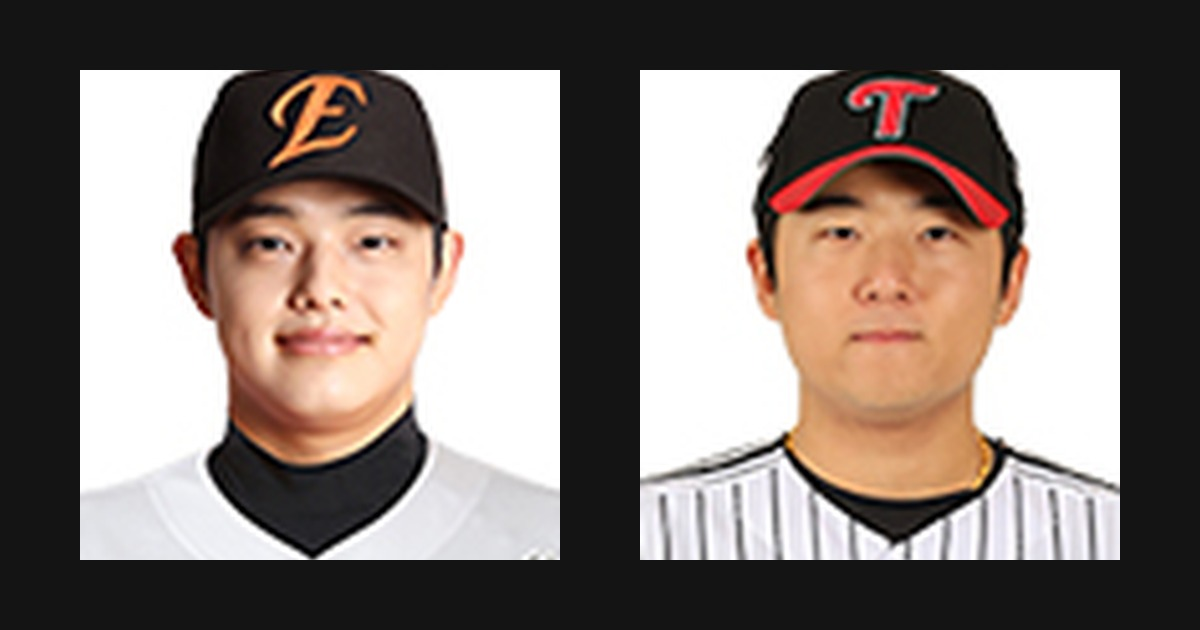
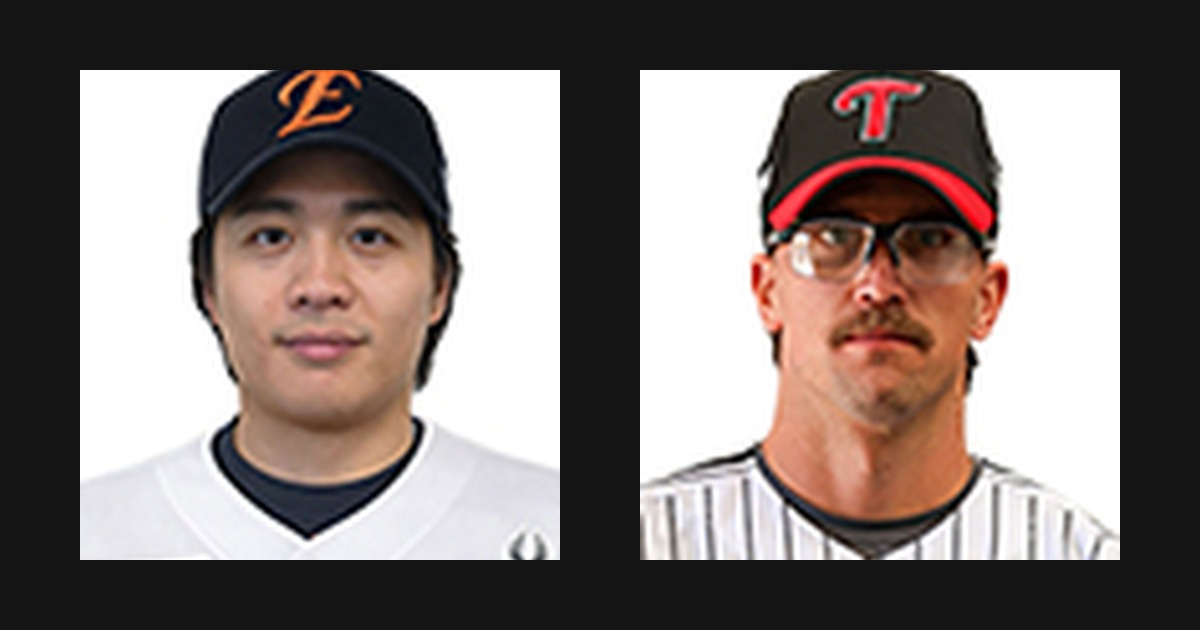
feat: pitcher cards, next-day fallback, night schedule
Made-with: Cursor

Changed region(s): [[0.5242, 0.0905, 0.9558, 0.9048], [0.0617, 0.0905, 0.4625, 0.9048], [0.4008, 0.8444, 0.4625, 0.9048]]

diff --git a/index.html b/index.html
@@ -3,22 +3,22 @@
 <head>
   <meta charset="UTF-8" />
   <meta name="viewport" content="width=device-width, initial-scale=1.0" />
-  <title>2026년 4월 21일 한화 vs LG</title>
+  <title>2026년 4월 22일 한화 vs LG</title>
   <meta property="og:type" content="website" />
-  <meta property="og:title" content="2026년 4월 21일 한화 vs LG" />
-  <meta property="og:description" content="한화 : 문동주 / LG : 송승기" />
+  <meta property="og:title" content="2026년 4월 22일 한화 vs LG" />
+  <meta property="og:description" content="한화 : 왕옌청 / LG : 웰스" />
   <meta property="og:url" content="https://saintpark90.github.io/HES/" />
   <meta property="og:image" content="https://saintpark90.github.io/HES/thumbnail.jpg" />
   <meta property="og:site_name" content="한화 이글스 경기 알림" />
   <meta name="twitter:card" content="summary_large_image" />
-  <meta name="twitter:title" content="2026년 4월 21일 한화 vs LG" />
-  <meta name="twitter:description" content="한화 : 문동주 / LG : 송승기" />
+  <meta name="twitter:title" content="2026년 4월 22일 한화 vs LG" />
+  <meta name="twitter:description" content="한화 : 왕옌청 / LG : 웰스" />
   <meta name="twitter:image" content="https://saintpark90.github.io/HES/thumbnail.jpg" />
   <link rel="stylesheet" href="./styles.css" />
 </head>
 <body>
   <main class="card">
-    <h1>한화 이글스 다음 경기 정보</h1>
+    <h1>한화 이글스 다음 경기</h1>
     <section id="game-content"></section>
     <!--<p class="share-note">
       카카오톡 공유 URL:
@@ -27,7 +27,7 @@
   </main>
 
   <script>
-    window.__NEXT_GAME__ = {"season_id": "2026", "game_date": "2026년 4월 21일", "game_time": "18:30", "stadium": "잠실", "home_team": "LG", "away_team": "한화", "matchup": "한화 vs LG", "hanwha_home_away": "원정", "opponent": "LG", "hanwha_starter": "문동주", "away_starter": "문동주", "home_starter": "송승기", "away_starter_id": "52701", "home_starter_id": "51111"};
+    window.__NEXT_GAME__ = {"season_id": "2026", "game_date": "2026년 4월 22일", "game_time": "18:30", "stadium": "잠실", "home_team": "LG", "away_team": "한화", "matchup": "한화 vs LG", "hanwha_home_away": "원정", "opponent": "LG", "hanwha_starter": "왕옌청", "away_starter": "왕옌청", "home_starter": "웰스", "away_starter_id": "56719", "home_starter_id": "55348", "away_starter_image": "https://6ptotvmi5753.edge.naverncp.com/KBO_IMAGE/person/middle/2026/56719.jpg", "home_starter_image": "https://6ptotvmi5753.edge.naverncp.com/KBO_IMAGE/person/middle/2026/55348.jpg", "away_starter_stats": {"era": "-", "war": "-", "games": "-", "avg_innings": "-", "qs": "-", "whip": "-"}, "home_starter_stats": {"era": "-", "war": "-", "games": "-", "avg_innings": "-", "qs": "-", "whip": "-"}};
   </script>
   <script src="./script.js"></script>
 </body>

diff --git a/script.js b/script.js
@@ -8,6 +8,23 @@ if (!container) {
 if (!game) {
   container.innerHTML = "<p>가까운 일정에서 한화 이글스 경기 정보를 찾지 못했습니다.</p>";
 } else {
+  const renderPitcherCard = (teamLabel, name, image, stats) => `
+    <article class="pitcher-card">
+      <img src="${image || "./thumbnail.jpg"}" alt="${name} 선수 사진" loading="lazy" />
+      <div class="pitcher-body">
+        <h3>${teamLabel}: ${name}</h3>
+        <div class="stats-grid">
+          <span>ERA</span><strong>${stats?.era || "-"}</strong>
+          <span>WAR</span><strong>${stats?.war || "-"}</strong>
+          <span>경기</span><strong>${stats?.games || "-"}</strong>
+          <span>평균이닝</span><strong>${stats?.avg_innings || "-"}</strong>
+          <span>QS</span><strong>${stats?.qs || "-"}</strong>
+          <span>WHIP</span><strong>${stats?.whip || "-"}</strong>
+        </div>
+      </div>
+    </article>
+  `;
+
   container.innerHTML = `
     <div class="row"><span class="label">경기일:</span>${game.game_date}</div>
     <div class="row"><span class="label">경기시간:</span>${game.game_time}</div>
@@ -17,8 +34,10 @@ if (!game) {
     <div class="row"><span class="label">상대팀:</span>${game.opponent}</div>
     <div class="row"><span class="label">한화 선발투수:</span>${game.hanwha_starter}</div>
     <div class="sub">
-      <div class="row"><span class="label">원정팀 선발:</span>${game.away_starter}</div>
-      <div class="row"><span class="label">홈팀 선발:</span>${game.home_starter}</div>
+      <div class="pitcher-grid">
+        ${renderPitcherCard("원정팀 선발", game.away_starter, game.away_starter_image, game.away_starter_stats)}
+        ${renderPitcherCard("홈팀 선발", game.home_starter, game.home_starter_image, game.home_starter_stats)}
+      </div>
     </div>
   `;
 }

diff --git a/styles.css b/styles.css
@@ -36,6 +36,52 @@ h1 {
   color: #333;
 }
 
+.pitcher-grid {
+  display: grid;
+  grid-template-columns: repeat(auto-fit, minmax(280px, 1fr));
+  gap: 12px;
+}
+
+.pitcher-card {
+  border: 1px solid #e7e7e7;
+  border-radius: 10px;
+  overflow: hidden;
+  background: #fff;
+}
+
+.pitcher-card img {
+  width: 100%;
+  height: 230px;
+  object-fit: cover;
+  display: block;
+  background: #f0f0f0;
+}
+
+.pitcher-body {
+  padding: 10px 12px 12px;
+}
+
+.pitcher-body h3 {
+  margin: 0 0 10px;
+  font-size: 16px;
+}
+
+.stats-grid {
+  display: grid;
+  grid-template-columns: repeat(2, minmax(0, 1fr));
+  row-gap: 6px;
+  column-gap: 8px;
+  align-items: center;
+}
+
+.stats-grid span {
+  color: #666;
+}
+
+.stats-grid strong {
+  text-align: right;
+}
+
 .share-note {
   margin-top: 20px;
   font-size: 14px;

diff --git a/crawler.py b/crawler.py
@@ -1,6 +1,7 @@
 from __future__ import annotations
 
 import json
+import re
 from datetime import date, timedelta
 from typing import Any, Dict, Optional
 
@@ -9,6 +10,8 @@ import requests
 KBO_GAME_LIST_URL = "https://www.koreabaseball.com/ws/Main.asmx/GetKboGameList"
 HANWHA_TEAM_ID = "HH"
 SERIES_IDS = "0,1,3,4,5,6,7,9"
+KBO_IMAGE_BASE = "https://6ptotvmi5753.edge.naverncp.com/KBO_IMAGE/person/middle"
+PITCHER_DETAIL_URL = "https://www.koreabaseball.com/Record/Player/PitcherDetail/Basic.aspx"
 
 
 def _fetch_games(target_date: date) -> list[Dict[str, Any]]:
@@ -33,6 +36,61 @@ def _extract_hanwha_starter(game: Dict[str, Any]) -> str:
     return (game.get("B_PIT_P_NM") or "").strip()
 
 
+def _face_image_url(season_id: str, player_id: str) -> str:
+    season = season_id or str(date.today().year)
+    return f"{KBO_IMAGE_BASE}/{season}/{player_id}.jpg"
+
+
+def _is_finished_game(game: Dict[str, Any]) -> bool:
+    # SCORE_CK == "1" means final score is available.
+    return str(game.get("SCORE_CK", "")) == "1"
+
+
+def _clean_html_text(value: str) -> str:
+    text = re.sub(r"<[^>]+>", "", value or "")
+    return text.replace("&nbsp;", " ").strip()
+
+
+def _extract_table_row(html: str, header_name: str) -> Dict[str, str]:
+    table_re = rf"<table[^>]*>.*?<th[^>]*>{header_name}</th>.*?</table>"
+    match = re.search(table_re, html, re.S)
+    if not match:
+        return {}
+
+    table_html = match.group(0)
+    headers = [_clean_html_text(h) for h in re.findall(r"<th[^>]*>(.*?)</th>", table_html, re.S)]
+    row_match = re.search(r"<tbody[^>]*>\s*<tr[^>]*>(.*?)</tr>", table_html, re.S)
+    if not row_match:
+        return {}
+
+    cells = [_clean_html_text(c) for c in re.findall(r"<td[^>]*>(.*?)</td>", row_match.group(1), re.S)]
+    return {headers[idx]: cells[idx] for idx in range(min(len(headers), len(cells)))}
+
+
+def _fetch_pitcher_stats(player_id: str) -> Dict[str, str]:
+    if not player_id:
+        return {}
+
+    try:
+        response = requests.get(PITCHER_DETAIL_URL, params={"playerId": player_id}, timeout=10)
+        response.raise_for_status()
+        html = response.text
+    except Exception:
+        return {}
+
+    basic = _extract_table_row(html, "ERA")
+    advanced = _extract_table_row(html, "SAC")
+
+    return {
+        "era": basic.get("ERA", "-"),
+        "war": "-",  # KBO pitcher detail page does not expose WAR.
+        "games": basic.get("G", "-"),
+        "avg_innings": basic.get("IP", "-"),
+        "qs": advanced.get("QS", "-"),
+        "whip": advanced.get("WHIP", "-"),
+    }
+
+
 def get_next_hanwha_game(max_days_ahead: int = 30) -> Optional[Dict[str, str]]:
     today = date.today()
     for offset in range(max_days_ahead + 1):
@@ -41,15 +99,22 @@ def get_next_hanwha_game(max_days_ahead: int = 30) -> Optional[Dict[str, str]]:
         for game in games:
             if not _is_hanwha_game(game):
                 continue
+            if offset == 0 and _is_finished_game(game):
+                continue
 
             is_away = game.get("AWAY_ID") == HANWHA_TEAM_ID
             opponent_name = game.get("HOME_NM") if is_away else game.get("AWAY_NM")
             hanwha_starter = _extract_hanwha_starter(game) or "미정"
             away_starter = (game.get("T_PIT_P_NM") or "").strip() or "미정"
             home_starter = (game.get("B_PIT_P_NM") or "").strip() or "미정"
+            away_starter_id = str(game.get("T_PIT_P_ID") or "")
+            home_starter_id = str(game.get("B_PIT_P_ID") or "")
+            season_id = str(game.get("SEASON_ID", ""))
+            away_starter_stats = _fetch_pitcher_stats(away_starter_id)
+            home_starter_stats = _fetch_pitcher_stats(home_starter_id)
 
             return {
-                "season_id": str(game.get("SEASON_ID", "")),
+                "season_id": season_id,
                 "game_date": game.get("G_DT_TXT", ""),
                 "game_time": game.get("G_TM", ""),
                 "stadium": game.get("S_NM", ""),
@@ -61,7 +126,11 @@ def get_next_hanwha_game(max_days_ahead: int = 30) -> Optional[Dict[str, str]]:
                 "hanwha_starter": hanwha_starter,
                 "away_starter": away_starter,
                 "home_starter": home_starter,
-                "away_starter_id": str(game.get("T_PIT_P_ID") or ""),
-                "home_starter_id": str(game.get("B_PIT_P_ID") or ""),
+                "away_starter_id": away_starter_id,
+                "home_starter_id": home_starter_id,
+                "away_starter_image": _face_image_url(season_id, away_starter_id) if away_starter_id else "",
+                "home_starter_image": _face_image_url(season_id, home_starter_id) if home_starter_id else "",
+                "away_starter_stats": away_starter_stats,
+                "home_starter_stats": home_starter_stats,
             }
     return None
